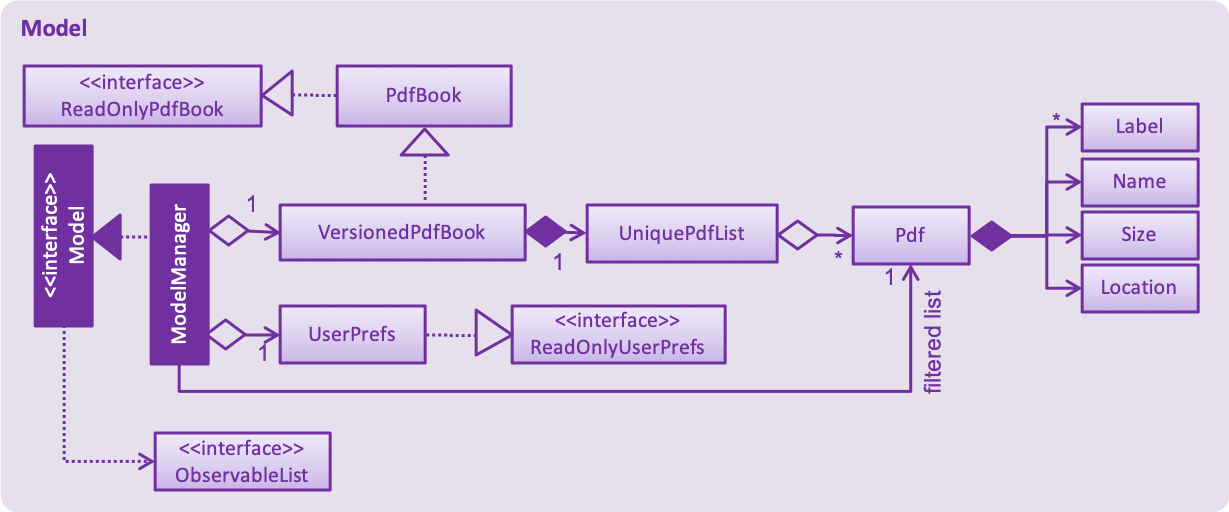
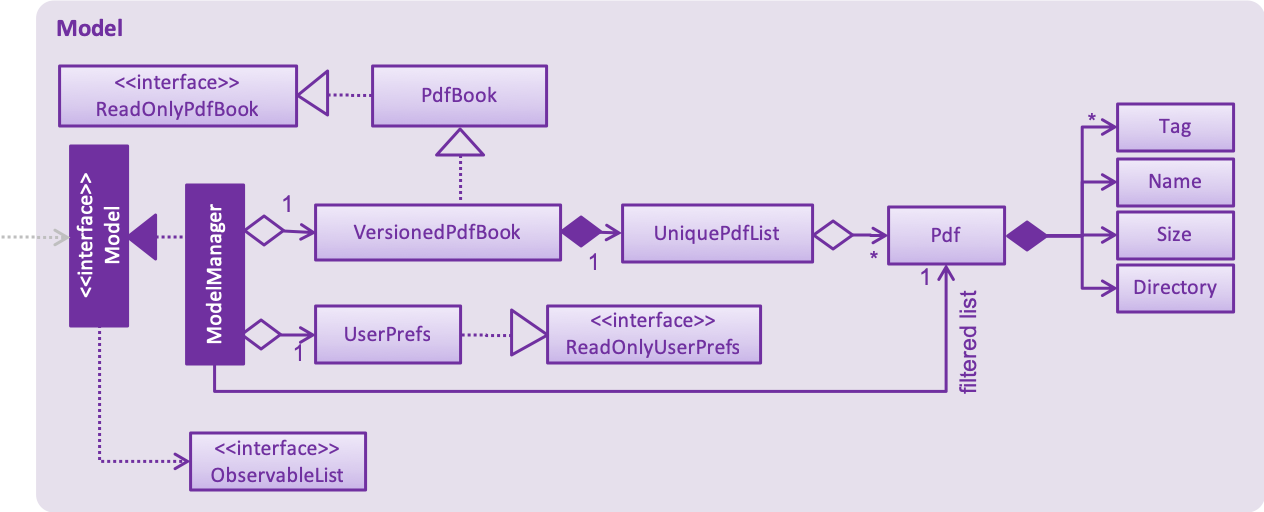
Rebuild pages at 1901883bc882a6696238f8518d7b4c40170ec76d

Changed region(s): [[0.0, 0.0, 0.9894, 1.0], [0.0618, 0.8438, 0.3092, 0.9688], [0.3092, 0.25, 0.402, 0.3438]]

diff --git a/DeveloperGuide.html b/DeveloperGuide.html
@@ -815,7 +815,7 @@ If the <code>currentStatePointer</code> is at index <code>addressBookStateList.s
 <div class="sect2">
 <h3 id="Implementation-Configuration"><a class="link" href="#Implementation-Configuration">3.4. Configuration</a></h3>
 <div class="paragraph">
-<p>Certain properties of the application can be controlled (e.g user prefs file location, logging level) through the configuration file (default: <code>config.json</code>).</p>
+<p>Certain properties of the application can be controlled (e.g user prefs file directory, logging level) through the configuration file (default: <code>config.json</code>).</p>
 </div>
 </div>
 </div>
@@ -1572,7 +1572,7 @@ Do take a look at <a href="#Design-Ui">Section 2.2, &#8220;UI component&#8221;</
 <p>Use <a href="https://github.com/cs2103-ay1819s2-t12-4/main/src/main/java/seedu/address/ui/StatusBarFooter.java"><code>StatusBarFooter#handleAddressBookChangedEvent(AddressBookChangedEvent)</code></a> to update the number of pdfs whenever there are new changes to the addressbook.</p>
 </li>
 <li>
-<p>For tests, modify <a href="https://github.com/cs2103-ay1819s2-t12-4/main/src/test/java/guitests/guihandles/StatusBarFooterHandle.java"><code>StatusBarFooterHandle</code></a> by adding a state-saving functionality for the total number of people status, just like what we did for save location and sync status.</p>
+<p>For tests, modify <a href="https://github.com/cs2103-ay1819s2-t12-4/main/src/test/java/guitests/guihandles/StatusBarFooterHandle.java"><code>StatusBarFooterHandle</code></a> by adding a state-saving functionality for the total number of people status, just like what we did for save directory and sync status.</p>
 </li>
 <li>
 <p>For system tests, modify <a href="https://github.com/cs2103-ay1819s2-t12-4/main/src/test/java/systemtests/AddressBookSystemTest.java"><code>AddressBookSystemTest</code></a> to also verify the new total number of pdfs status bar.</p>
@@ -1609,7 +1609,7 @@ Do take a look at <a href="#Design-Storage">Section 2.5, &#8220;Storage componen
 <div class="olist arabic">
 <ol class="arabic">
 <li>
-<p>Add a new method <code>backupAddressBook(ReadOnlyAddressBook)</code>, so that the address book can be saved in a fixed temporary location.</p>
+<p>Add a new method <code>backupAddressBook(ReadOnlyAddressBook)</code>, so that the address book can be saved in a fixed temporary directory.</p>
 <div class="sidebarblock">
 <div class="content">
 <div class="ulist">
@@ -2252,11 +2252,11 @@ Expected: Shows the GUI with a set of sample contacts. The window size may not b
 <div class="olist loweralpha">
 <ol class="loweralpha" type="a">
 <li>
-<p>Resize the window to an optimum size. Move the window to a different location. Close the window.</p>
+<p>Resize the window to an optimum size. Move the window to a different directory. Close the window.</p>
 </li>
 <li>
 <p>Re-launch the app by double-clicking the jar file.<br>
-Expected: The most recent window size and location is retained.</p>
+Expected: The most recent window size and directory is retained.</p>
 </li>
 </ol>
 </div>
@@ -2320,4 +2320,4 @@ Expected: Similar to previous.</p>
 </div>
 </div>
 </div>
-</div></div><div id="footer"><div class="container"><div id="footer-text">Last updated 2019-03-12 05:19:12 UTC</div></div></div></body></html>
+</div></div><div id="footer"><div class="container"><div id="footer-text">Last updated 2019-03-19 11:43:32 UTC</div></div></div></body></html>

diff --git a/HelpWindow.html b/HelpWindow.html
@@ -282,7 +282,7 @@ Format: <code>move FILENAME LOCATION</code></p>
 <div class="sect2">
 <h3 id="retrieving-information-about-the-file-code-info-code"><a class="link" href="#retrieving-information-about-the-file-code-info-code">3.10. Retrieving information about the file : <code>info</code></a></h3>
 <div class="paragraph">
-<p>Retrieve information about the pdf file, e.g. file location, deadline, etc.<br>
+<p>Retrieve information about the pdf file, e.g. file directory, deadline, etc.<br>
 Format: <code>info FILENAME</code></p>
 </div>
 <div class="paragraph">
@@ -407,4 +407,4 @@ e.g. <code>deadline Tutorial3 20-02-2019</code> , <code>deadline Tutorial3</code
 </ul>
 </div>
 </div>
-</div></div><div id="footer"><div class="container"><div id="footer-text">Last updated 2019-03-12 05:19:12 UTC</div></div></div></body></html>
+</div></div><div id="footer"><div class="container"><div id="footer-text">Last updated 2019-03-19 11:43:32 UTC</div></div></div></body></html>

diff --git a/UserGuide.html b/UserGuide.html
@@ -282,7 +282,7 @@ Format: <code>move FILENAME LOCATION</code></p>
 <div class="sect2">
 <h3 id="retrieving-information-about-the-file-code-info-code"><a class="link" href="#retrieving-information-about-the-file-code-info-code">3.10. Retrieving information about the file : <code>info</code></a></h3>
 <div class="paragraph">
-<p>Retrieve information about the pdf file, e.g. file location, deadline, etc.<br>
+<p>Retrieve information about the pdf file, e.g. file directory, deadline, etc.<br>
 Format: <code>info FILENAME</code></p>
 </div>
 <div class="paragraph">
@@ -407,4 +407,4 @@ e.g. <code>deadline Tutorial3 20-02-2019</code> , <code>deadline Tutorial3</code
 </ul>
 </div>
 </div>
-</div></div><div id="footer"><div class="container"><div id="footer-text">Last updated 2019-03-12 05:19:12 UTC</div></div></div></body></html>
+</div></div><div id="footer"><div class="container"><div id="footer-text">Last updated 2019-03-19 11:43:32 UTC</div></div></div></body></html>

diff --git a/team/johndoe.html b/team/johndoe.html
@@ -375,4 +375,4 @@ If the <code>currentStatePointer</code> is at index <code>addressBookStateList.s
 <p><em>{Optionally, you may include other projects in your portfolio.}</em></p>
 </div>
 </div>
-</div></div><div id="footer"><div class="container"><div id="footer-text">Last updated 2019-03-12 05:19:12 UTC</div></div></div></body></html>
+</div></div><div id="footer"><div class="container"><div id="footer-text">Last updated 2019-03-19 11:43:32 UTC</div></div></div></body></html>

diff --git a/ContactUs.html b/ContactUs.html
@@ -12,4 +12,4 @@
 <p><strong>Email us</strong> : You can also reach us at <code>e0202630 [at] comp.nus.edu.sg</code></p>
 </li>
 </ul>
-</div></div><div id="footer"><div class="container"><div id="footer-text">Last updated 2019-03-12 05:19:12 UTC</div></div></div></body></html>
+</div></div><div id="footer"><div class="container"><div id="footer-text">Last updated 2019-03-19 11:43:32 UTC</div></div></div></body></html>

diff --git a/LearningOutcomes.html b/LearningOutcomes.html
@@ -549,4 +549,4 @@ When the value represented by the <code>ObservableValue</code> changes, it will 
 </div>
 </div>
 </div>
-</div></div><div id="footer"><div class="container"><div id="footer-text">Last updated 2019-03-12 05:19:12 UTC</div></div></div></body></html>
+</div></div><div id="footer"><div class="container"><div id="footer-text">Last updated 2019-03-19 11:43:32 UTC</div></div></div></body></html>

diff --git a/UsingGradle.html b/UsingGradle.html
@@ -255,4 +255,4 @@ See <code>build.gradle</code> &#8594; <code>allprojects</code> &#8594; <code>dep
 </ul>
 </div>
 </div>
-</div></div><div id="footer"><div class="container"><div id="footer-text">Last updated 2019-03-12 05:19:12 UTC</div></div></div></body></html>
+</div></div><div id="footer"><div class="container"><div id="footer-text">Last updated 2019-03-19 11:43:32 UTC</div></div></div></body></html>

diff --git a/UsingNetlify.html b/UsingNetlify.html
@@ -123,4 +123,4 @@ The publish directory is the directory in which the built HTML documentation res
 </ol>
 </div>
 </div>
-</div></div><div id="footer"><div class="container"><div id="footer-text">Last updated 2019-03-12 05:19:12 UTC</div></div></div></body></html>
+</div></div><div id="footer"><div class="container"><div id="footer-text">Last updated 2019-03-19 11:43:32 UTC</div></div></div></body></html>

diff --git a/UsingCoveralls.html b/UsingCoveralls.html
@@ -96,4 +96,4 @@ If you have not set up Travis CI, see <a href="UsingTravis.html">UsingTravis.ado
 </ol>
 </div>
 </div>
-</div></div><div id="footer"><div class="container"><div id="footer-text">Last updated 2019-03-12 05:19:12 UTC</div></div></div></body></html>
+</div></div><div id="footer"><div class="container"><div id="footer-text">Last updated 2019-03-19 11:43:32 UTC</div></div></div></body></html>

diff --git a/AboutUs.html b/AboutUs.html
@@ -73,4 +73,4 @@ We are a team based in the <a href="http://www.comp.nus.edu.sg">School of Comput
 <hr>
 </div>
 </div>
-</div></div><div id="footer"><div class="container"><div id="footer-text">Last updated 2019-03-12 05:19:12 UTC</div></div></div></body></html>
+</div></div><div id="footer"><div class="container"><div id="footer-text">Last updated 2019-03-19 11:43:32 UTC</div></div></div></body></html>

diff --git a/UsingTravis.html b/UsingTravis.html
@@ -277,4 +277,4 @@ Suggested change: Remove the codacy badge from <code>README</code>.</p>
 </div>
 </div>
 </div>
-</div></div><div id="footer"><div class="container"><div id="footer-text">Last updated 2019-03-12 05:19:12 UTC</div></div></div></body></html>
+</div></div><div id="footer"><div class="container"><div id="footer-text">Last updated 2019-03-19 11:43:32 UTC</div></div></div></body></html>

diff --git a/UsingCheckstyle.html b/UsingCheckstyle.html
@@ -91,4 +91,4 @@ Restart the IDE to complete the installation.</p>
 </ul>
 </div>
 </div>
-</div></div><div id="footer"><div class="container"><div id="footer-text">Last updated 2019-03-12 05:19:12 UTC</div></div></div></body></html>
+</div></div><div id="footer"><div class="container"><div id="footer-text">Last updated 2019-03-19 11:43:32 UTC</div></div></div></body></html>
